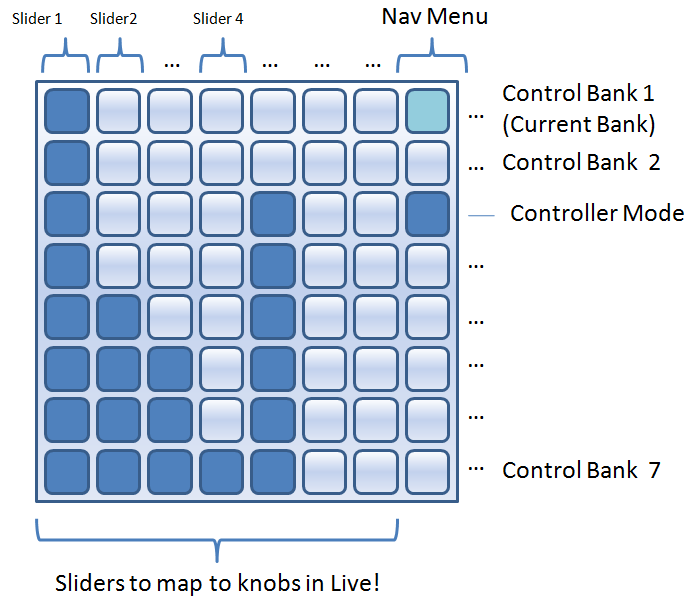
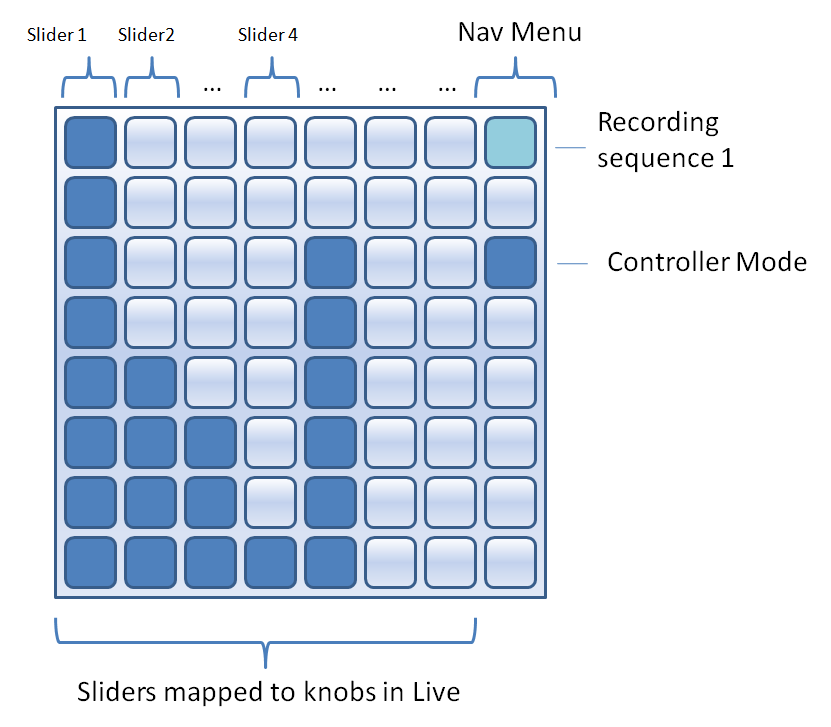
-fixed bug in loading melodizer sequences.  The seq status was not being updated when loaded from status so the masterizer never knew it was valid.
-put the variable velocity back in looper (1-127 depending on the y position)

diff --git a/doc/index.htm b/doc/index.htm
@@ -106,14 +106,8 @@ a img {
         <h2>Download</h2>
         <p>The entire 7up Live package can be downloaded here:</p>
         <ul>
-            <li>Windows: <A href="http://www.makingthenoise.com/sevenup/SevenUpLiveWindows-v1.1.zip">http://www.makingthenoise.com/sevenup/SevenUpLiveWindows-v1.1.zip</a></li>
-            <li>OSX - <span style="color:red"/>A recent Apple Java update has broken SevenUpLiveOSX 1.1.&nbsp; A 
-                temporary fix is available below as v1.2</span>:<ul>
-                    <li>OSX (pre Java 5 Update 4): 
-                        <A href="http://www.makingthenoise.com/sevenup/SevenUpLiveOSX-v1.1.tar.gz">http://www.makingthenoise.com/sevenup/SevenUpLiveOSX-v1.1.tar.gz</a></li>
-                    <li>OSX (post Java 5 Update 4):  <A href="http://www.makingthenoise.com/sevenup/SevenUpLiveOSX-v1.2.tar.gz">http://www.makingthenoise.com/sevenup/SevenUpLiveOSX-v1.2.tar.gz</a></li>
-                </ul>
-            </li>
+            <li>Windows: <A href="http://www.makingthenoise.com/sevenup/SevenUpLiveWindows-v1.2.zip">http://www.makingthenoise.com/sevenup/SevenUpLiveWindows-v1.2.zip</a></li>
+        	<li>OSX: <A href="http://www.makingthenoise.com/sevenup/SevenUpLiveOSX-v1.2.tar.gz">http://www.makingthenoise.com/sevenup/SevenUpLiveOSX-v1.2.tar.gz</a></li>
         </ul>
        <p>Extras for advanced users:</p>
         <ul>
@@ -295,13 +289,15 @@ a img {
         <p>
 
             The controller mode allows you to map 7 different MIDI controllers to any knob 
-            or function in Ableton Live.&nbsp; 
+            or function in Ableton Live and record sequences of control value changes.&nbsp; 
             For instance, you can assign controls 1-3 to 3 different filters for 3 of your 
-            loops and assign control 4 to the chance those loops Beat Repeat.&nbsp; The 
-            controller mode gives you 7 memory banks for control values which can be 
-            triggered through the Masterizer mode.</p>
+            loops and assign control 4 to the chance those loops Beat Repeat.&nbsp; Then by 
+            cueing a control sequence, you can record your interactions with those knobs and 
+            play them back (this functionality is similar to loop recording covered later).&nbsp; 
+            Once a sequence is recorded and stopped, it will immediately play back.&nbsp; 
+            Stopping and starting a control sequence after that must be done from the 
+            Masterizer mode.</p>
         <p>
-            Each column on the left hand side acts as a slider and corresponds to 1 control.&nbsp; 
             In order to map that slider to a knob in Ableton Live, first STOP YOUR SONG 
             (otherwise other midi values being sent will be interpretted), then click the 
             MIDI button in the top right of Ableton Live, click on the knob you want to 
@@ -309,7 +305,8 @@ a img {
         <p>
             The following graphic shows a situation where someone mapped 4 different sliders 
             to knobs in Ableton Live.&nbsp; The first slider is sending MIDI control value 
-            128, the second is sending 64... and so on.</p>
+            128, the second is sending 64... and so on.&nbsp; The Nav Menu column can then 
+            be used to cue and record 7 sequences of control changes.</p>
 
     <div style="text-align:center">
     <img src="images/ControllerMode.PNG" /></div>
@@ -795,6 +792,9 @@ a img {
                 This *removes* this ability to trigger patterns while in sequencer mode.</li>
             <li>1.0 - 2/20/2009 - barnone (Chris Lloyd) added the ability to support multiple monome connections at once.  Loop length was moved to the UI.  Removed ability to sequence multiple patterns at once because it kinda sucked.</li>
             <li>1.1 - 4/25/2009 - New looper modes assigned to each of the 7 loops through the GUI.  Loop recorder has been revamped to behave more like the melodizers in that the recorded sequences can include button presses for any loop.  Added support for multiple 256's.</li>
+            <li>1.2 - 8/7/2009 - Updated promidi library to fix bugs with Mac OSX Java Update4 &amp; 
+                64-bit mac&#39;s.&nbsp; Modified controller mode to allow for recording sequences of 
+                control value changes (Similar to loop recorder).</li>
         </ul>
         <h2 id="contact">Contact</h2>
         Any comments or suggestions, contact me at <a href="mailto:sevenuplive@googlegroups.com" >sevenuplive@googlegroups.com</a>

diff --git a/src/mtn/sevenuplive/modes/Looper.java b/src/mtn/sevenuplive/modes/Looper.java
@@ -155,9 +155,7 @@ public class Looper extends Mode {
 			int loopCtrlValue = (y * 16);
 			midiOut.sendController(new promidi.Controller(OFFSET_START_CTRL+x, loopCtrlValue));
 			playLoop(x, y);
-			
-			//System.out.println("Gate loops is " + gateLoopChokes);
-	}
+			}
 	
 	// NOTE: Not used
 	/*private int getSizeOfStoppedLoopsInChokeGroup(int chokeGroup)
@@ -227,7 +225,7 @@ public class Looper extends Mode {
         					if (loops[i].getTrigger(step) == true) {
         						midiOut.sendController(new promidi.Controller(OFFSET_START_CTRL+i, loopCtrlValue));
         						if(!muteNotes)
-        							midiOut.sendNoteOn(new Note(MonomeUp.C3+i,127, 0));
+        							midiOut.sendNoteOn(new Note(MonomeUp.C3+i,pressedRow * 16  +1, 0));
         						loops[i].setTrigger(step, false);
         					} else {
         						stopLoop(i);
@@ -240,7 +238,7 @@ public class Looper extends Mode {
         					if (resCounter == 0 || loops[i].getTrigger(step)) {
         						midiOut.sendController(new promidi.Controller(OFFSET_START_CTRL+i, loopCtrlValue));
         						if(!muteNotes)
-        							midiOut.sendNoteOn(new Note(MonomeUp.C3+i,127, 0));
+        							midiOut.sendNoteOn(new Note(MonomeUp.C3+i,pressedRow * 16 +1, 0));
         						loops[i].setTrigger(step, false);
         					}
         					// If it's a one shot loop, then we stop after the first iteration
@@ -284,7 +282,7 @@ public class Looper extends Mode {
 	        	        				}
 	        	        			}	
 	        	        			if (sendNote)
-	        	        				midiOut.sendNoteOn(new Note(MonomeUp.C3+i,127, 0));
+	        	        				midiOut.sendNoteOn(new Note(MonomeUp.C3+i,pressedRow * 16 +1, 0));
         	        			}
         	        			pressedRow = -1;
         	        				

diff --git a/src/mtn/sevenuplive/modes/Melodizer.java b/src/mtn/sevenuplive/modes/Melodizer.java
@@ -517,6 +517,8 @@ public class Melodizer extends Mode {
 					sequence = new NoteSequence(index);
 					setMelRecMode(recMode);
 					sequence.loadJDOMXMLElement(xmlSequence);
+					//Set status to stopped if there is a sequence
+					if(!sequence.isEmpty())sequence.setStatus(MonomeUp.STOPPED);
 					sequences.put(index, sequence);
 				}
 				

diff --git a/src/mtn/sevenuplive/modes/NoteSequence.java b/src/mtn/sevenuplive/modes/NoteSequence.java
@@ -311,6 +311,11 @@ public class NoteSequence {
 		return status;
 	}
 	
+	public void setStatus(int status)
+	{
+		this.status = status;
+	}
+	
 	
 	public Element toJDOMXMLElement()
 	{
